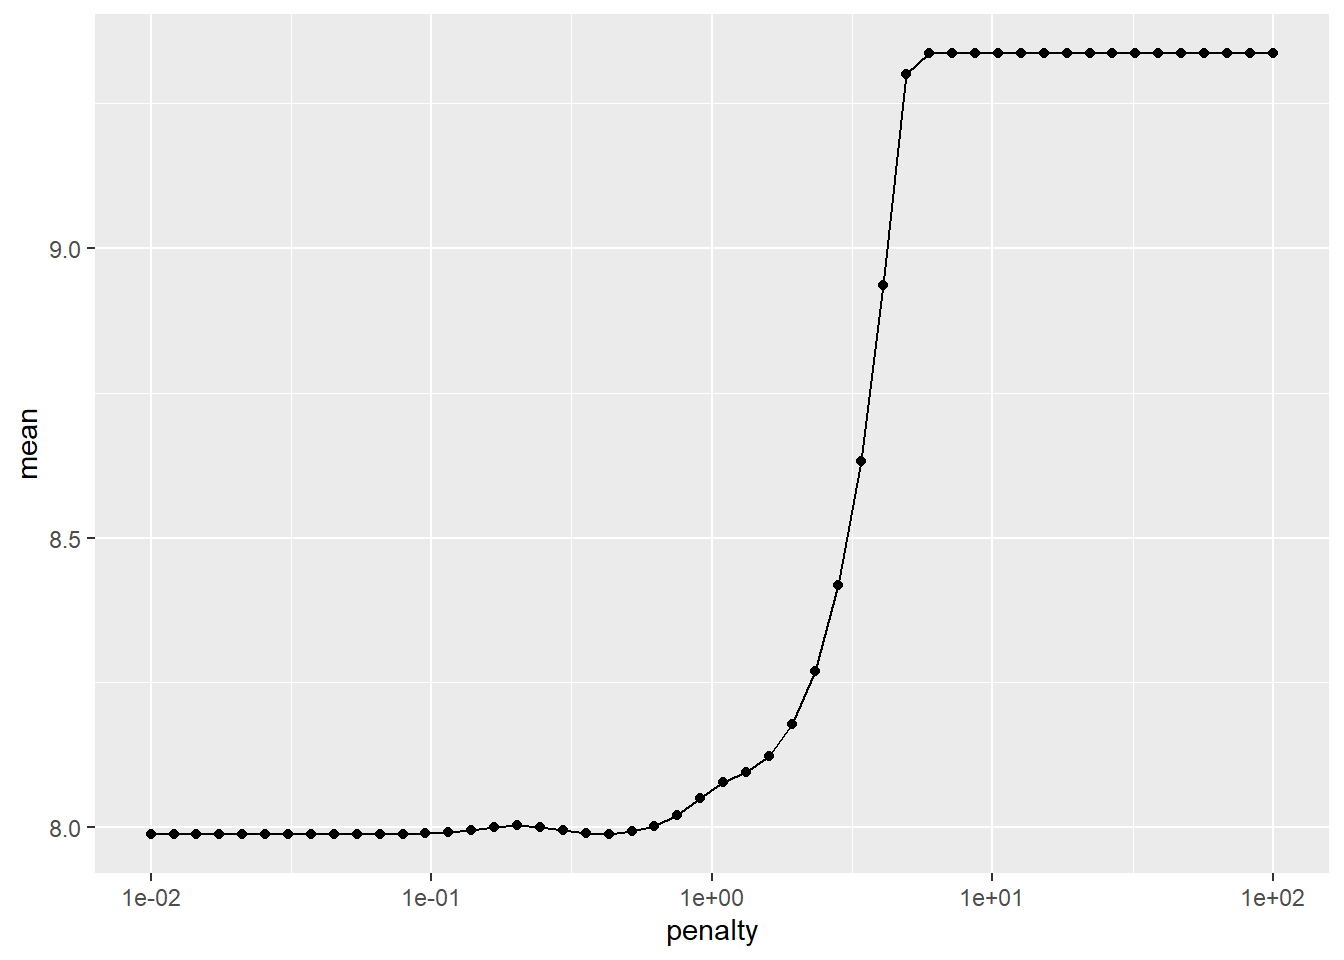
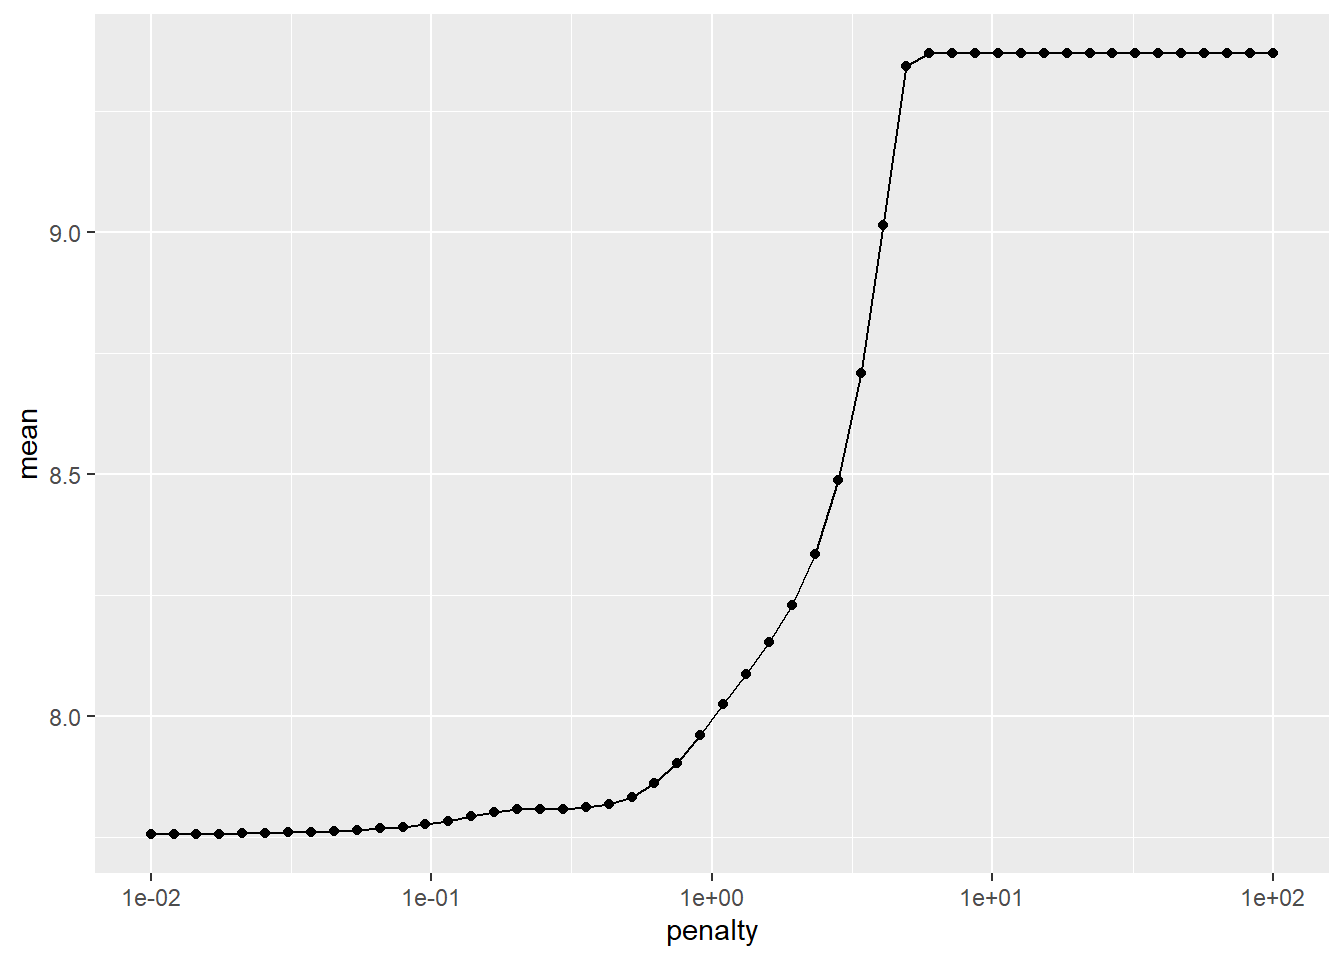
deacxtivate lionk

diff --git a/docs/calvary_mem_proj.html b/docs/calvary_mem_proj.html
@@ -99,8 +99,9 @@ ul.task-list li input[type="checkbox"] {
 <span class="menu-text">Chiefs Data Project</span></a>
   </li>  
   <li class="nav-item">
-    <a class="nav-link active" href="./calvary_mem_proj.html" aria-current="page"> 
-<span class="menu-text">Calvary Church Membership Project</span></a>
+    <span class="nav-link">
+<span class="menu-text">Calvary Church Membership Project</span>
+    </span>
   </li>  
 </ul>
           </div> <!-- /navcollapse -->
@@ -138,13 +139,29 @@ ul.task-list li input[type="checkbox"] {
 
 <section id="project-walkthrough" class="level2">
 <h2 class="anchored" data-anchor-id="project-walkthrough">Project Walkthrough</h2>
-<p>This video provides a brief walkthrough of a Power BI dashboard analyzing membership data quality and engagement trends.<br>
-Due to data sensitivity, the dashboard is demonstrated via recorded walkthrough rather than public deployment.</p>
+<p>This video is a walk through of a project I did for Calvary Church of Santa Ana to study their membership data. The purpose of this project was to study the data quality as well as engagement trends within their congregation. This project was completed through Power BI and it utilizes data given from the church by the membership tracking software Planning Center.</p>
 <video controls="" width="100%">
 <source src="videos/ccmp2.mp4" type="video/mp4">
 </video>
+</section>
+<section id="conclusion" class="level2">
+<h2 class="anchored" data-anchor-id="conclusion">Conclusion</h2>
+<p>Some key information can be found in this data about Calvary’s engagement with its congregation. The following insights and tools will help this church better care for and know its members.</p>
+<section id="data-acquisition" class="level3">
+<h3 class="anchored" data-anchor-id="data-acquisition">Data Acquisition</h3>
+<p>A constant trend that can be seen in the data available is poor data acquisition. More than half of Calvary’s member records are missing five or more key attributes in their profile information. This information is crusial to understanding the needs of the congregation the church is serving. In order for proper analysis to take place, these bad data acquisition habits must end.</p>
+</section>
+<section id="email-retriever" class="level3">
+<h3 class="anchored" data-anchor-id="email-retriever">Email Retriever</h3>
+<p>In order to solve some of this missing data probelem, I created a dashboard to retrieve missing information from Calvary’s members. This tool produces a CSV of emails of members with select missing information. Using the church’s mass email system, the user can then reach out to members with missing information.</p>
+</section>
+<section id="age-distribution" class="level3">
+<h3 class="anchored" data-anchor-id="age-distribution">Age Distribution</h3>
+<p>The majority of Calvary’s age distribution falls between 5 and 20 years old, indicating that ministries serving children and youth should be a strategic priority, as these age groups represent the largest portion of the congregation.<br>
+</p>
 
 
+</section>
 </section>
 
 </main> <!-- /main -->

diff --git a/docs/FinalProject.html b/docs/FinalProject.html
@@ -162,8 +162,9 @@ window.Quarto = {
 <span class="menu-text">Chiefs Data Project</span></a>
   </li>  
   <li class="nav-item">
-    <a class="nav-link" href="./calvary_mem_proj.html"> 
-<span class="menu-text">Calvary Church Membership Project</span></a>
+    <span class="nav-link">
+<span class="menu-text">Calvary Church Membership Project</span>
+    </span>
   </li>  
 </ul>
           </div> <!-- /navcollapse -->
@@ -686,7 +687,7 @@ New names:
 <pre><code># A tibble: 1 × 2
   penalty .config              
     &lt;dbl&gt; &lt;chr&gt;                
-1  0.0373 Preprocessor1_Model08</code></pre>
+1    0.01 Preprocessor1_Model01</code></pre>
 </div>
 <div class="sourceCode cell-code" id="cb20"><pre class="sourceCode r code-with-copy"><code class="sourceCode r"><span id="cb20-1"><a href="#cb20-1" aria-hidden="true" tabindex="-1"></a>lasso_wflow_final <span class="ot">&lt;-</span> kcc_lasso_wflow <span class="sc">|&gt;</span></span>
 <span id="cb20-2"><a href="#cb20-2" aria-hidden="true" tabindex="-1"></a>  <span class="fu">finalize_workflow</span>(<span class="at">parameters =</span> lasso_best) </span></code><button title="Copy to Clipboard" class="code-copy-button"><i class="bi"></i></button></pre></div>
@@ -703,16 +704,16 @@ New names:
 <pre><code># A tibble: 10 × 3
    term        estimate penalty
    &lt;chr&gt;          &lt;dbl&gt;   &lt;dbl&gt;
- 1 (Intercept)   27.8    0.0373
- 2 PtA           -0.906  0.0373
- 3 FirstD         1.08   0.0373
- 4 TotYd          3.87   0.0373
- 5 PassY          0      0.0373
- 6 RushY          0.956  0.0373
- 7 FirstD_Alwd    2.00   0.0373
- 8 TotYd_Alwd     0      0.0373
- 9 PassY_Alwd     0.774  0.0373
-10 RushY_Alwd    -0.489  0.0373</code></pre>
+ 1 (Intercept)   27.8      0.01
+ 2 PtA           -1.02     0.01
+ 3 FirstD         1.12     0.01
+ 4 TotYd          3.89     0.01
+ 5 PassY          0        0.01
+ 6 RushY          0.966    0.01
+ 7 FirstD_Alwd    2.08     0.01
+ 8 TotYd_Alwd     0        0.01
+ 9 PassY_Alwd     0.813    0.01
+10 RushY_Alwd    -0.500    0.01</code></pre>
 </div>
 </div>
 <p>Here we can see that important variables include Points Allowed (PtA), First Down Count (FirstD), Total Yards (TotYd), total Rusing Yards (RushY), First Downs Allowed (FirstD_Alwd), Passing Yards Allowed (PassY_Alwd) and Rushing Yards Allowed (RushY_Alwd). We will proceed to use these variables in our following models.</p>

diff --git a/docs/index.html b/docs/index.html
@@ -99,8 +99,9 @@ ul.task-list li input[type="checkbox"] {
 <span class="menu-text">Chiefs Data Project</span></a>
   </li>  
   <li class="nav-item">
-    <a class="nav-link" href="./calvary_mem_proj.html"> 
-<span class="menu-text">Calvary Church Membership Project</span></a>
+    <span class="nav-link">
+<span class="menu-text">Calvary Church Membership Project</span>
+    </span>
   </li>  
 </ul>
           </div> <!-- /navcollapse -->
